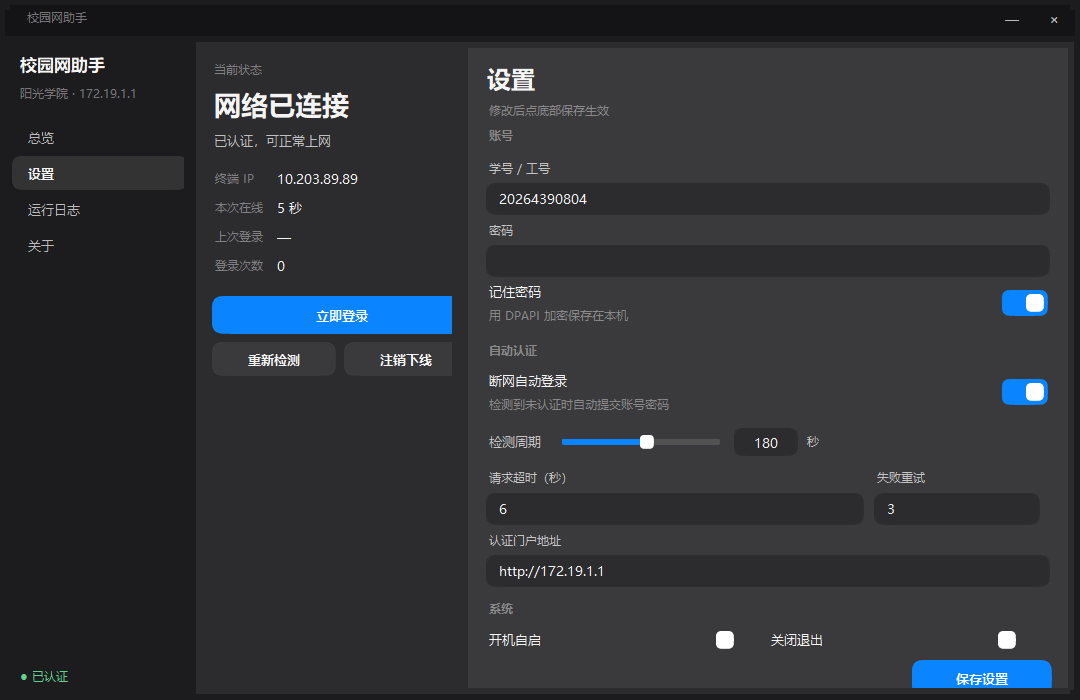
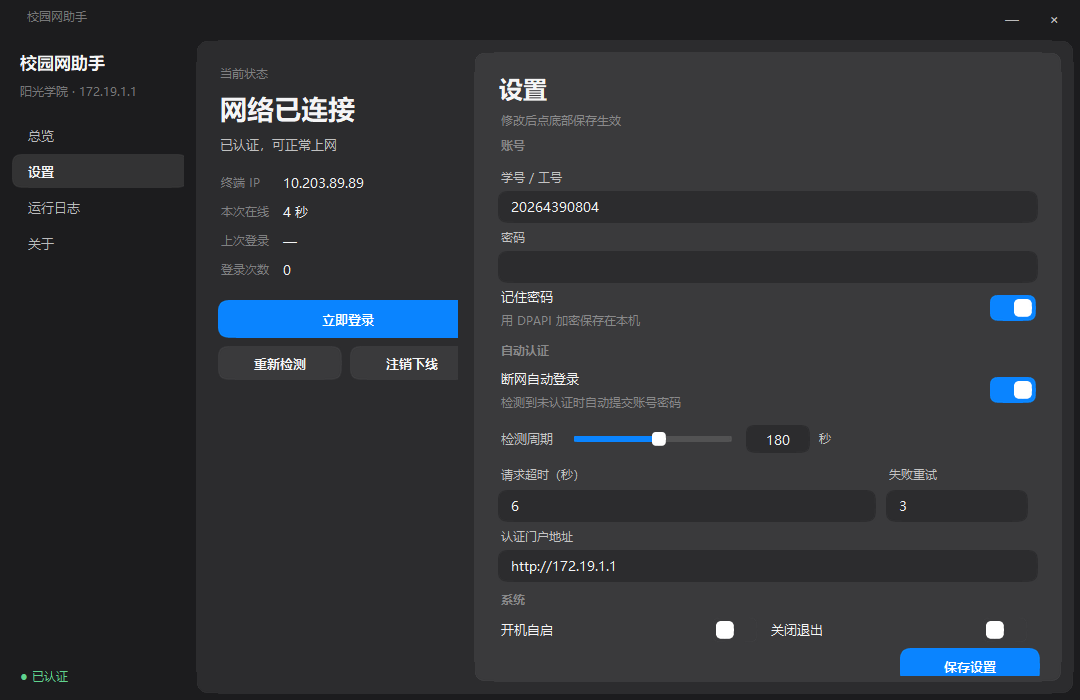
fix: 卡片圆角被内容层盖住的问题；顶部去掉标题色条
- Card 改为内容铺满 + 四角用超椭圆遮罩补回圆角（之前 padding=0 时圆角被方形内容层覆盖）
- 顶部标题直接落在底色上，不再有独立色条
- 设置页再压缩 10px，保存按钮回到一屏内

diff --git a/tk_app.py b/tk_app.py
@@ -128,6 +128,37 @@ def _squircle_photo(w: int, h: int, r: int, fill: str, ss: int = 4):
     return photo
 
 
+def _corner_mask(size: int, r: int, color: str, corner: str):
+    """生成 r×r 的角落遮罩：圆角外侧填父级底色，内侧透明。"""
+    key = ("mask", size, r, color, corner)
+    if key in _IMG_CACHE:
+        return _IMG_CACHE[key]
+    if not HAS_PIL:
+        return None
+    img = Image.new("RGBA", (size, size), (0, 0, 0, 0))
+    px = img.load()
+    rgb = tuple(int(color.lstrip("#")[i:i + 2], 16) for i in (0, 2, 4))
+    e = 2.0 / SQUIRCLE_N
+    for y in range(size):
+        for x in range(size):
+            if corner == "tr":
+                u, v = size - 1 - x, y
+            elif corner == "bl":
+                u, v = x, size - 1 - y
+            elif corner == "br":
+                u, v = size - 1 - x, size - 1 - y
+            else:
+                u, v = x, y
+            if u >= r or v >= r:
+                continue
+            inside = ((r - u) / r) ** SQUIRCLE_N + ((r - v) / r) ** SQUIRCLE_N <= 1.0
+            if not inside:
+                px[x, y] = (rgb[0], rgb[1], rgb[2], 255)
+    photo = ImageTk.PhotoImage(img)
+    _IMG_CACHE[key] = photo
+    return photo
+
+
 def draw_round(canvas: tk.Canvas, x: int, y: int, w: int, h: int, r: int,
                fill: str, tag: str = "shape") -> None:
     """在 canvas 上画一块抗锯齿的**超椭圆**圆角。没有 PIL 时退化为多边形。"""
@@ -214,20 +245,34 @@ class ScrollFrame(tk.Frame):
 
 
 class Card(tk.Frame):
-    """圆角卡片：外层 Canvas 画 AA 圆角底，内层 Frame 放内容。"""
+    """圆角卡片：Canvas 画 AA 圆角底，内层 Frame 铺满，四角再用遮罩补成圆角。"""
 
-    def __init__(self, master, *, bg=SURFACE, fill=MID, radius=RADIUS_CARD, padding=14):
+    def __init__(self, master, *, bg=SURFACE, fill=MID, radius=RADIUS_CARD, padding=6):
         super().__init__(master, bg=bg)
+        self._bg = bg
+        self._radius = radius
         self._canvas = RoundCanvas(self, bg=bg, fill=fill, radius=radius)
         self._canvas.pack(fill="both", expand=True)
         self.body = tk.Frame(self._canvas, bg=fill)
         self._pad = padding
         self._win = self._canvas.create_window(padding, padding, window=self.body, anchor="nw")
+        self._masks = []
         self._canvas.bind("<Configure>", self._on_resize, add="+")
 
     def _on_resize(self, event):
-        self._canvas.itemconfigure(self._win, width=max(10, event.width - self._pad * 2),
-                                   height=max(10, event.height - self._pad * 2))
+        w, h = event.width, event.height
+        self._canvas.itemconfigure(self._win, width=max(10, w - self._pad * 2),
+                                   height=max(10, h - self._pad * 2))
+        r = min(self._radius, max(2, min(w, h) // 2))
+        for item in self._masks:
+            self._canvas.delete(item)
+        self._masks = []
+        for corner, pos in (("tl", (0, 0)), ("tr", (w - r, 0)),
+                            ("bl", (0, h - r)), ("br", (w - r, h - r))):
+            photo = _corner_mask(r, r, self._bg, corner)
+            if photo is not None:
+                self._masks.append(self._canvas.create_image(pos[0], pos[1], image=photo,
+                                                             anchor="nw"))
 
 
 class Button(tk.Canvas):
@@ -540,7 +585,9 @@ class App(tk.Tk):
             hr = ctypes.windll.dwmapi.DwmSetWindowAttribute(
                 hwnd, 33, ctypes.byref(pref), ctypes.sizeof(pref))   # 半径交给系统
             if hr == 0:
-                return
+                # 即使系统接管，也清掉可能残留的区域，避免双重裁剪
+                ctypes.windll.user32.SetWindowRgn(hwnd, None, True)
+            return
         except Exception:                               # noqa: BLE001
             pass
         try:
@@ -725,7 +772,7 @@ class App(tk.Tk):
         self.side_status.pack(side="bottom", fill="x", pady=(0, 12))
 
         # 第二层：中栏卡片（浮在侧栏之上，四周留 8px）
-        mid_card = Card(body, bg=DEEP, fill=MID, radius=RADIUS_CARD, padding=0)
+        mid_card = Card(body, bg=DEEP, fill=MID, radius=RADIUS_CARD, padding=6)
         mid_card.pack(side="left", fill="both", expand=True, padx=(0, 6), pady=6)
         mid = mid_card.body
 
@@ -735,7 +782,7 @@ class App(tk.Tk):
         self._build_status(status)
 
         # 第三层：内容卡片（嵌在中栏卡片里，右上下一圈 8px 露出中栏色）
-        content_card = Card(mid, bg=MID, fill=SURFACE, radius=RADIUS_CARD - 2, padding=0)
+        content_card = Card(mid, bg=MID, fill=SURFACE, radius=RADIUS_CARD - 2, padding=6)
         content_card.pack(side="left", fill="both", expand=True, padx=(0, 6), pady=6)
         content = content_card.body
         self._content = content
@@ -743,14 +790,14 @@ class App(tk.Tk):
         self._switch_manual(self._current)
 
     def _build_titlebar(self):
-        bar = tk.Frame(self, bg=BASE, height=36)
+        bar = tk.Frame(self, bg=DEEP, height=34)
         bar.pack(fill="x")
         bar.pack_propagate(False)
-        title = tk.Label(bar, text="校园网助手", bg=BASE, fg=T3_D, font=F_SMALL)
+        title = tk.Label(bar, text="校园网助手", bg=DEEP, fg=T3_D, font=F_SMALL)
         title.pack(side="left", padx=(24, 0))
 
         for text, cmd, danger in (("×", self.hide_to_tray, True), ("—", self._minimize, False)):
-            IconButton(bar, text, cmd, bg=BASE, danger=danger).pack(
+            IconButton(bar, text, cmd, bg=DEEP, danger=danger).pack(
                 side="right", padx=(0, 10), pady=6)
 
         for w in (bar, title):
@@ -950,7 +997,7 @@ class App(tk.Tk):
         self.v_remember = self._make_switch(body, "记住密码", "用 DPAPI 加密保存在本机", compact=True)
 
         tk.Label(body, text="自动认证", bg=SURFACE, fg=T3_S, font=F_SMALL_B,
-                 anchor="w").pack(fill="x", pady=(10, 4))
+                 anchor="w").pack(fill="x", pady=(6, 3))
         self.v_auto = self._make_switch(body, "断网自动登录", "检测到未认证时自动提交账号密码")
 
         srow = tk.Frame(body, bg=SURFACE)
@@ -977,14 +1024,14 @@ class App(tk.Tk):
         self.v_base = self._field(body, "认证门户地址")
 
         tk.Label(body, text="系统", bg=SURFACE, fg=T3_S, font=F_SMALL_B,
-                 anchor="w").pack(fill="x", pady=(10, 4))
+                 anchor="w").pack(fill="x", pady=(6, 3))
         pair = tk.Frame(body, bg=SURFACE)
         pair.pack(fill="x")
         self.v_startup = self._make_switch(pair, "开机自启", "", side="left")
         self.v_autoclose = self._make_switch(pair, "关闭退出", "", side="left")
 
         bar = tk.Frame(outer, bg=SURFACE)
-        bar.pack(fill="x", padx=16, pady=(4, 6))
+        bar.pack(fill="x", padx=16, pady=(2, 2))
         Button(bar, "保存设置", self._save_settings, bg=SURFACE, fill=ACCENT,
                accent=True, width=140, height=36).pack(side="right")
 
@@ -992,7 +1039,7 @@ class App(tk.Tk):
 
     def _field(self, parent, label, *, secret=False):
         tk.Label(parent, text=label, bg=SURFACE, fg=T2_S, font=F_SMALL,
-                 anchor="w").pack(fill="x", pady=(4, 3))
+                 anchor="w").pack(fill="x", pady=(3, 2))
         entry = RoundedEntry(parent, bg=SURFACE, fill=MID, height=32,
                              show="•" if secret else None)
         entry.pack(fill="x")
@@ -1013,7 +1060,7 @@ class App(tk.Tk):
         if side:
             row.pack(side=side, fill="x", expand=True, pady=3, padx=(0, 8))
         else:
-            row.pack(fill="x", pady=2)
+            row.pack(fill="x", pady=1)
         txt = tk.Frame(row, bg=SURFACE)
         txt.pack(side="left", fill="x", expand=True)
         tk.Label(txt, text=label, bg=SURFACE, fg=T1_S, font=F_BODY, anchor="w").pack(fill="x")

diff --git a/README.md b/README.md
@@ -76,7 +76,8 @@ pip install pillow
 窗口行为：
 
 - **层叠结构**：侧栏是最底层（与窗口同色），中栏卡片浮在其上、四周留 6px，
-  内容卡片再嵌进中栏里、右上下一圈 6px 露出中栏色——一层压一层，不是并排三块；
+  内容卡片再嵌进中栏里、四周留 6px 露出中栏色——一层压一层，不是并排三块；
+- **顶部标题不占色块**：文字直接落在底色上，没有单独的标题栏色条；
 - **可调整大小**：拖动窗口任意边缘/四角即可拉伸（最小 900×560），布局跟随重排；
 - **内容可滚动**：设置页等内容超出时用鼠标滚轮滚动，滚动条隐藏；
 - **点 × 只收进右下角托盘**，程序继续守护，托盘单击可重新打开；
